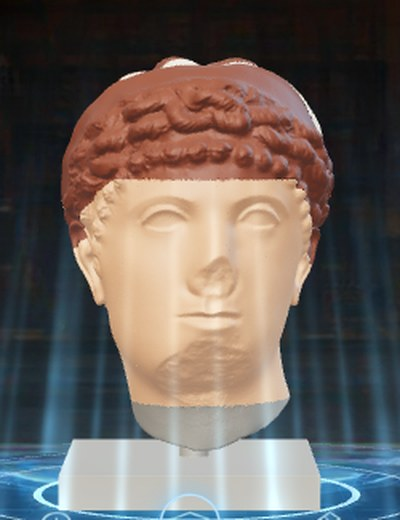
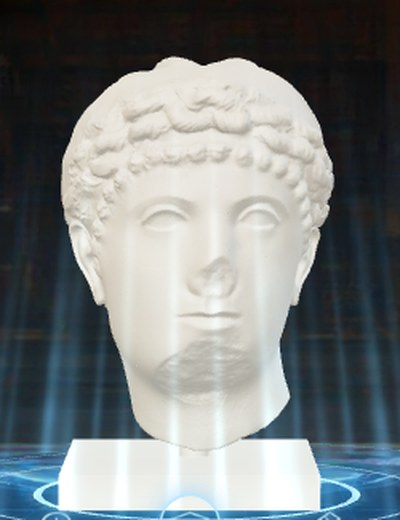
Cleopatra: plain marble, painted view removed
Claude-Session: https://claude.ai/code/session_01WmiZZA7jwr2YKYoXZXng2Z

diff --git a/cleopatra/index.html b/cleopatra/index.html
@@ -129,8 +129,6 @@ svg.lines{position:absolute;inset:0;width:100%;height:100%;pointer-events:none;o
   .panel{margin:10px 10px 10px 12px}
   .reader .rcard{max-height:96vh}
 }
-.ptag{position:absolute;left:50%;transform:translateX(-50%);top:96px;z-index:4;font:600 12px/1 Spectral,serif;color:#ffe2a0;background:rgba(10,24,40,.8);border:1px solid rgba(255,214,140,.55);border-radius:12px;padding:5px 10px;pointer-events:none}
-@media (max-width:760px),(max-aspect-ratio:3/4),(max-height:500px) and (orientation:landscape){.ptag{top:auto;bottom:10px}}
 </style>
 </head>
 <body>
@@ -140,7 +138,6 @@ svg.lines{position:absolute;inset:0;width:100%;height:100%;pointer-events:none;o
   <div class="mhead">WolfOS Spatial Archive Lab<small>Explore · Analyze · Interpret · Connect</small></div>
   <div class="mtools"><button type="button" data-do="spin">Spin</button><button type="button" data-do="zoom">Zoom</button><button type="button" data-do="size">Real size</button><button type="button" data-do="help">Help</button></div>
   <div class="hero" id="hero">
-    <div class="ptag" id="ptag">Painted colours: a reconstruction</div>
     <canvas id="c" aria-label="3D scan of a marble portrait of Cleopatra VII, rising from the archive desk. Drag to turn it."></canvas>
     <svg class="lines" id="lines" viewBox="0 0 1448 1086" preserveAspectRatio="none"></svg>
     <div class="loading" id="loading">Bringing Cleopatra up from the archive…</div>
@@ -151,7 +148,7 @@ svg.lines{position:absolute;inset:0;width:100%;height:100%;pointer-events:none;o
     <h2><svg viewBox="0 0 32 32"><path d="M4 12h24M6 12v13M11 12v13M16 12v13M21 12v13M26 12v13M3 27h26M5 12l11-7 11 7"/></svg>What am I looking at?<button class="grow" type="button" aria-label="Make this card bigger" title="Make bigger"><svg viewBox="0 0 24 24"><path d="M14 4h6v6M10 20H4v-6M20 4l-7 7M4 20l7-7"/></svg></button></h2>
     <div class="row"><img src="thumb.jpg" alt="Portrait head of Cleopatra VII, front view">
       <div><h3>Cleopatra VII (69–30 BCE)</h3>
-      <p>The last ruler of Ptolemaic Egypt, wearing the royal diadem of Greek kings. A 3D scan of a museum cast of an ancient marble portrait, shown with its likely original paint. <button class="more" type="button" id="paintBtn">Show bare marble</button> &middot; <button class="more" type="button" data-read="look">Read the full story &rsaquo;</button></p></div></div>
+      <p>The last ruler of Ptolemaic Egypt, wearing the royal diadem of Greek kings. A 3D scan of a museum cast of an ancient marble portrait made in her lifetime. <button class="more" type="button" data-read="look">Read the full story &rsaquo;</button></p></div></div>
   </section>
 
   <section class="panel" id="inter">
@@ -190,7 +187,7 @@ svg.lines{position:absolute;inset:0;width:100%;height:100%;pointer-events:none;o
   <section class="panel" id="detail" aria-live="polite"><h2><span id="dt"></span><button class="grow" type="button" aria-label="Make this card bigger" title="Make bigger"><svg viewBox="0 0 24 24"><path d="M14 4h6v6M10 20H4v-6M20 4l-7 7M4 20l7-7"/></svg></button><button class="x" id="dclose" aria-label="Close">×</button></h2><div id="db"></div></section>
   <section class="panel" id="help"><h2>How to use the Archive Lab<button class="x" id="hclose" aria-label="Close">×</button></h2>
     <ul><li><b>Drag</b> the portrait to turn it. <b>Scroll</b> or pinch to zoom.</li><li><b>Click a label</b>, or click the portrait itself, to learn about that part.</li>
-    <li>Desk buttons: <b>spin</b>, <b>zoom</b>, <b>labels on/off</b>, <b>real size</b>, and this help.</li><li>This is a 3D scan of a plaster cast, so it carries shape only. The <b>painted colours are a reconstruction</b>: ancient marble portraits were painted, and the Berlin portrait of Cleopatra still has faint red paint in its hair. The skin and diadem colours are educated guesses. Use "Show bare marble" to see the stone. The stand is modern.</li></ul>
+    <li>Desk buttons: <b>spin</b>, <b>zoom</b>, <b>labels on/off</b>, <b>real size</b>, and this help.</li><li>This is a 3D scan of a plaster cast made for a museum of casts, so it shows the shape of the ancient marble, not its colour. The stone stand is modern.</li></ul>
     <p style="font-size:13px;color:var(--dim);margin:6px 0 0">3D scan: "Cleopatra VII" by Scan The World (MyMiniFactory), cast in the Museum für Abgüsse Klassischer Bildwerke, Munich, CC BY-NC-SA. Sources: Staatliche Museen zu Berlin; Encyclopaedia Britannica; Plutarch, Life of Antony.</p></section>
   <div class="chips" id="chips"></div>
 </div>
@@ -320,7 +317,7 @@ async function load() {
   const buf = await fetch('model.glb').then(r => { if (!r.ok) throw new Error('model ' + r.status); return r.arrayBuffer(); });
   const cib = self.createImageBitmap;   // read the model's paint as <img>; a sealed page may refuse fetch() of its blobs
   const gltf = await new Promise((res, rej) => { try { self.createImageBitmap = undefined; } catch (_) {} try { new GLTFLoader().setMeshoptDecoder(MeshoptDecoder).parse(buf, '', res, rej); } finally { try { self.createImageBitmap = cib; } catch (_) {} } });
-  mask = gltf.scene; mask.updateMatrixWorld(true); paintCleo(mask); const box = new THREE.Box3().setFromObject(mask), sz = box.getSize(new THREE.Vector3()), s = OH / sz.y;
+  mask = gltf.scene; mask.traverse(o => { if (o.isMesh) o.material = new THREE.MeshStandardMaterial({ color:'#b3aa9b', roughness:.8, metalness:0 }); }); const box = new THREE.Box3().setFromObject(mask), sz = box.getSize(new THREE.Vector3()), s = OH / sz.y;
   mask.scale.setScalar(s); baseY = -box.min.y * s + .01; mask.position.set(-(box.min.x + sz.x / 2) * s, baseY, -(box.min.z + sz.z / 2) * s);
   mask.traverse(o => { if (o.isMesh) { o.material.clippingPlanes = [clip]; o.material.emissive = new THREE.Color('#5ab8ff'); o.material.emissiveIntensity = 0; } });
   scene.add(mask); mask.updateMatrixWorld(true); findAnchors(); $('loading').remove(); rise = reduce ? 1 : .0001;
@@ -404,27 +401,6 @@ document.querySelectorAll('#look,#inter,#think,#detail').forEach(p => p.addEvent
 $('rclose').onclick = closeReader;
 reader.addEventListener('click', e => { if (e.target === reader) return closeReader(); const b = e.target.closest('[data-do]'); if (b) { closeReader(); act(b.dataset.do, b); } });
 addEventListener('keydown', e => { if (e.key === 'Escape' && !reader.hidden) closeReader(); });
-
-// PAINTED VIEW: ancient marble was painted. Colour the real scan by region (a reconstruction); the button switches to bare marble.
-const PAINT = { skin:new THREE.Color('#b0805f'), hair:new THREE.Color('#5e2e1c'), band:new THREE.Color('#d6ccb2'), stand:new THREE.Color('#6f6a64') };
-const marbleMat = new THREE.MeshStandardMaterial({ color:'#b3aa9b', roughness:.8, metalness:0 }), paintMat = new THREE.MeshStandardMaterial({ vertexColors:true, roughness:.72, metalness:0 });
-let painted = true;
-function paintCleo(root) {   // model units: height 130, face toward +z, y up from the stand's base
-  const v = new THREE.Vector3(), nm = new THREE.Vector3();
-  root.traverse(o => { if (!o.isMesh) return; const g = o.geometry, p = g.attributes.position, n = g.attributes.normal, N = p.count, col = new Float32Array(N * 3), m3 = new THREE.Matrix3().getNormalMatrix(o.matrixWorld);
-    for (let i = 0; i < N; i++) { v.fromBufferAttribute(p, i).applyMatrix4(o.matrixWorld); if (n) nm.fromBufferAttribute(n, i).applyMatrix3(m3).normalize(); else nm.set(0, 1, 0);
-      const x = v.x, y = v.y, z = v.z; let c;
-      if (y < BAND.standY && (Math.abs(nm.x) > .96 || Math.abs(nm.y) > .96 || Math.abs(nm.z) > .96 || y < BAND.rodY)) c = PAINT.stand;
-      else if (y > BAND.minY && Math.abs(BAND.nz * (z - BAND.z0) + BAND.ny * (y - BAND.y0)) < BAND.w) c = PAINT.band;
-      else { const hl = z >= HAIR.zf ? HAIR.yf : z <= HAIR.zb ? HAIR.yb : HAIR.yb + (z - HAIR.zb) / (HAIR.zf - HAIR.zb) * (HAIR.yf - HAIR.yb); c = y > hl ? PAINT.hair : PAINT.skin; }
-      col[i * 3] = c.r; col[i * 3 + 1] = c.g; col[i * 3 + 2] = c.b; }
-    g.setAttribute('color', new THREE.BufferAttribute(col, 3)); o.material = paintMat; });
-}
-const BAND = { z0:9.5, y0:129, nz:.904, ny:-.428, w:4.2, minY:55, standY:27.5, rodY:21 }, HAIR = { zf:30, yf:94, zb:-20, yb:55 };
-function setPaint(on) { painted = on; if (!mask) return; mask.traverse(o => { if (!o.isMesh) return; const old = o.material, m = on ? paintMat : marbleMat;
-    m.clippingPlanes = old.clippingPlanes; m.emissive = old.emissive || new THREE.Color('#5ab8ff'); m.emissiveIntensity = old.emissiveIntensity || 0; o.material = m; });
-  $('paintBtn').textContent = on ? 'Show bare marble' : 'Show painted colours'; $('ptag').hidden = !on; }
-document.addEventListener('click', e => { if (e.target.closest('#paintBtn')) { e.stopPropagation(); setPaint(!painted); } }, true);
 const ease = t => t < .5 ? 2 * t * t : 1 - (-2 * t + 2) ** 2 / 2, v3 = new THREE.Vector3(), cp = new THREE.Vector3();
 let last = performance.now();
 function frame(now) {
